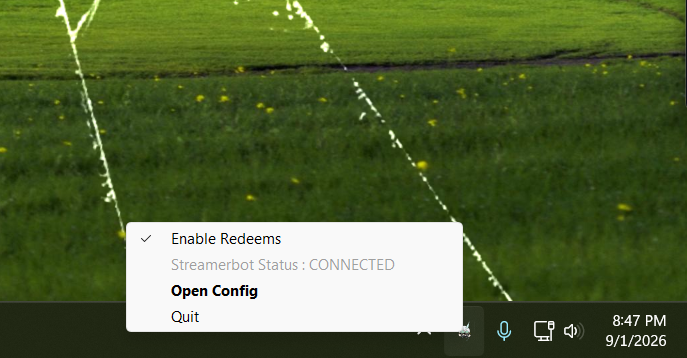
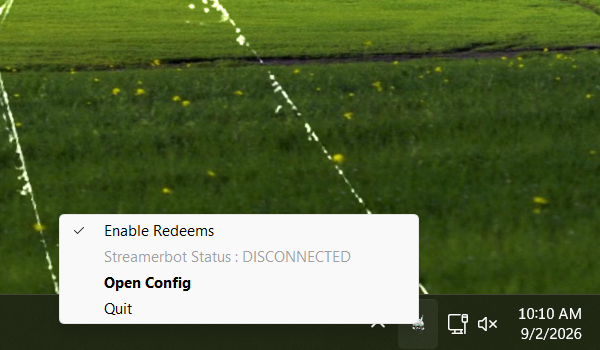
update readme

diff --git a/README.md b/README.md
@@ -1,22 +1,101 @@
-# Ray-Virus Window Manager
+# Ray-Virus
 
-Let your chat display early 2000s ad pop-ups on your stream using channel redeems!  
-~ 20 different wacky wonderful windows that will definitely annoy you on stream!
+Let your chat control when pop-ups appear on your screen using Twitch channel points!
 
+<img src="docs/images/ads_menu.png">
 
-## Features
-🔥 Integration with streamerbot for twitch channel redeems  
-🔥 20 different wacky fake popup windows  
-🔥 Randomized and toggleable windows  
+## Table of Contents
+- [Installation]()
+- [Usage]()
+- [Building from Source]()
+- [License]()
+
 
 ## Installation
-#### Windows
-Download a release from the "releases" tab and double-click the .exe!
+1. Download a release from the [Releases Tab](https://github.com/Meeecoh/ray-virus/releases) on the right side.  
+2. Double-click the application to run
+
+*Linux and MacOS Distributions have not been tested. The Python packages included should be cross-compatible but your mileage may vary.*
+
+## Usage
+
+Requires : 
+- Affiliate Status on Twitch for Channel Point Redeems
+- [Streamer.bot](https://streamer.bot/) w/ Twitch connected
+
+### 1. Connect Twitch to Streamerbot
+Twitch needs to be connected to Streamerbot to monitor channel point redeems.  
+Settings are at `Platforms > Twitch ` and scroll down to `Accounts` and login to your `Broadcaster Account`.
+
+<div align="center">
+    <img src="docs/images/connect_twitch.png" width="500">
+</div>
+
+### 2. Add a Twitch Redeem
+Twitch redeems can be set using Streamer.bot
+
+<div align="center">
+<img src="docs/images/streamerbot_3.png" width="400">
+
+
+click on `Channel Point Rewards` to manage Redeems
+
+
+<img src="docs/images/streamerbot_4.png" width="400">
+
+
+Right click the empty space  
+Click `Create Reward`  to create a new channel point redeem
+
+<img src="docs/images/streamerbot_5.png" width="400">
+
+Enter the name, cost, and any other settings you'd like to change
+</div>
+
+### 3. Start Streamerbot's Websocket Server
+Ray Virus uses streamer.bot as a websocket server to monitor Twitch channel point redeems.   
+
+<div align="center">
+<img src="docs/images/websocket_server.png" width="500">
+
+Websocket server settings in Streamerbot are at `Servers/Clients > WebSocket Server`.  
+Turn on `Autostart` and start the server by clicking `Start Server`. 
+</div>
+
+
+
+
+### 4. Configure the Ray Virus
+
+<div align="center">
+<img src="docs/images/system_icon.png" width="300">
+<img src="docs/images/system_icon_2.png" width="300">
+
+The Ray Virus shows up as a system icon  
+Left-clicking opens the config menu,  
+Right-clicking opens a context menu to view status and enable redeems
+
+<img src="docs/images/general_menu.png" width="300">  
+
+The General tab of the config menu allows you to enable/disable redeems   
+and setup which monitors windows show up in. 
+
+<img src="docs/images/streamerbot_menu.png" width="300">  
+
+The Streamer.bot tab shows websocket connection status and allows  
+you to configure the address and password of the websocket server. 
+
+<img src="docs/images/windows_menu.png" width="300">
+
+The Windows tab allows you to test out various included windows.
+
+</div>
+
 
 
 ## Building From Source
 -- Tested with python v3.14.6 --
-1. clone the repository
+1. Clone the repository
 ```
 git clone https://github.com/Meeecoh/ray-virus.git
 cd ray-virus
@@ -36,7 +115,7 @@ python -m venv .venv
 ```
 pip install -r requirements.txt
 ```
-3. Run build script
+3. Run build script. Builds should be generated in `dist/`
 ```
 # windows
 ./make_build.ps1
@@ -45,15 +124,6 @@ pip install -r requirements.txt
 # (macOS/Linux)
 ./make_build.sh
 ```
-
-## Usage
-### Enabling or Disabling popups
-It's recommended to enable/disable the channel redeem itself through streamerbot instead of disabling the popups.
-In a case where you'd wanna do that, you can toggle "Enabled" through the system icon tray or from the config menu `icon tray>Config>Toggle enable`.
-
-### Setting Websocket address and Password
-You can set the address in the Config menu accessed through the Icon tray
-
 
 ## License
 This repository is licensed under the [MIT LICENSE](LICENSE)
